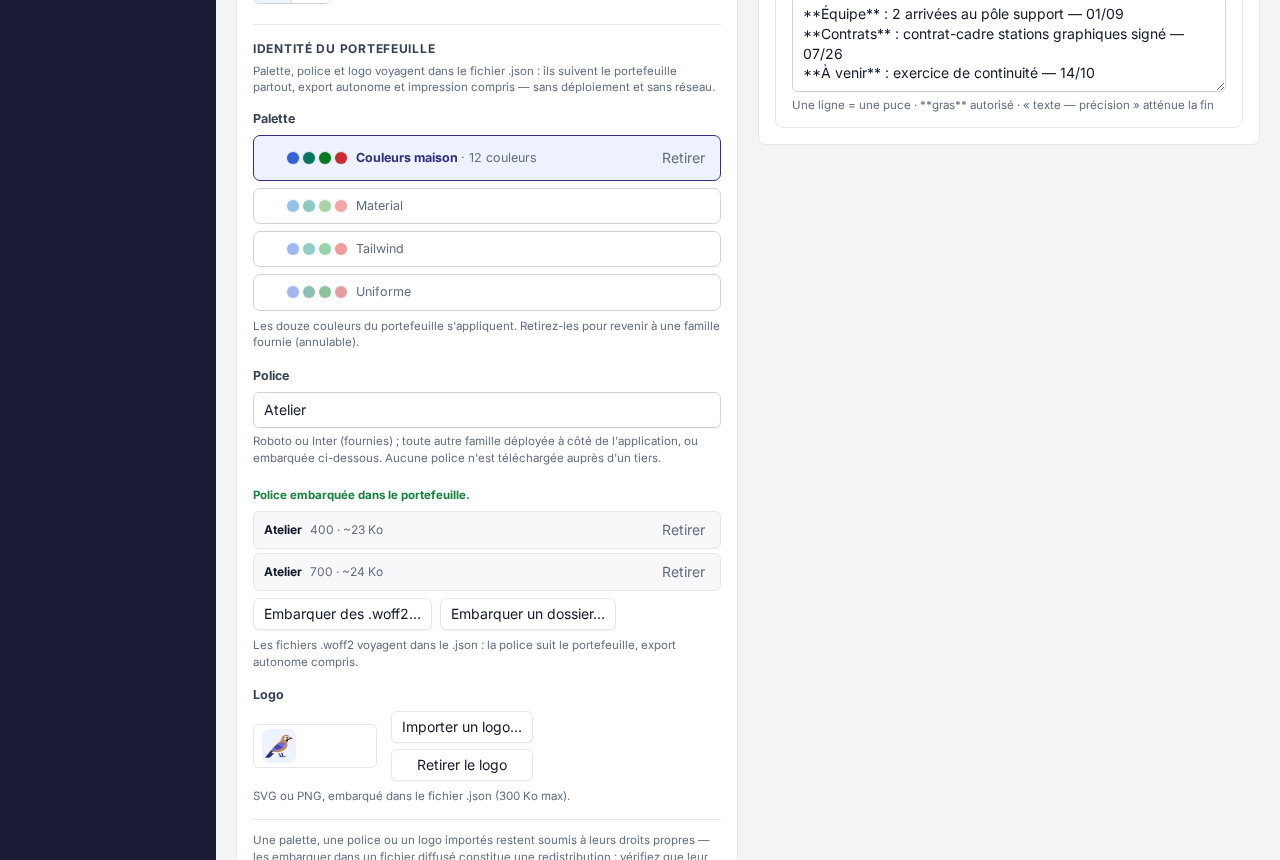
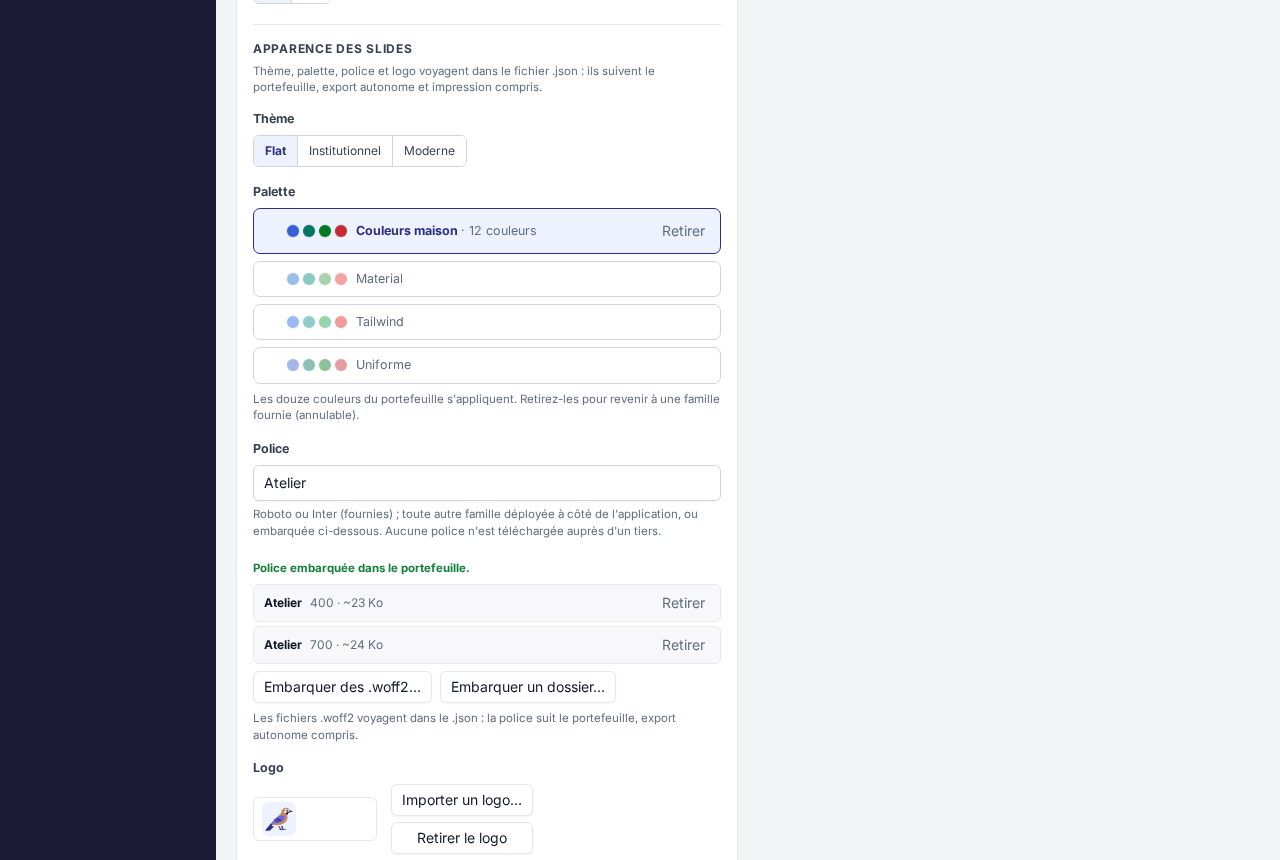
fix(editor): organize free slides and slide appearance

diff --git a/packages/components/src/screens/ReviewScreen.svelte b/packages/components/src/screens/ReviewScreen.svelte
@@ -69,9 +69,9 @@
   /** Mounted only while open: a closed preview renders no slide at all. */
   let previewingTitle = $state(false)
 
-  const openings = $derived(portfolio.freeSlides.filter((s) => s.anchor.type === 'opening'))
+  const slides = $derived(portfolio.freeSlides)
 
-  function addOpening(): void {
+  function addSlide(): void {
     // Born empty: the display does the "—" fallback, the data stays honest.
     const slide: FreeSlide = {
       id: nextFreeSlideId(portfolio.freeSlides),
@@ -82,13 +82,14 @@
     dispatch({ type: 'CreateFreeSlide', slide, index: portfolio.freeSlides.length })
   }
 
-  /**
-   * ↑/↓ move an opening slide RELATIVE TO ITS VISIBLE NEIGHBOUR: `to` is the
-   * neighbour's index in the full `freeSlides` list, which `FreeSlideMoved`'s
-   * splice semantics turn into "right before it" (up) / "right after it" (down).
-   */
-  function moveOpening(slide: FreeSlide, delta: -1 | 1): void {
-    const neighbour = openings[openings.indexOf(slide) + delta]
+  /** Position determines placement in the deck; arrows order slides at that position. */
+  function neighbourOf(slide: FreeSlide, delta: -1 | 1): FreeSlide | undefined {
+    const siblings = slides.filter((s) => JSON.stringify(s.anchor) === JSON.stringify(slide.anchor))
+    return siblings[siblings.indexOf(slide) + delta]
+  }
+
+  function moveSlide(slide: FreeSlide, delta: -1 | 1): void {
+    const neighbour = neighbourOf(slide, delta)
     if (!neighbour) return
     dispatch({
       type: 'MoveFreeSlide',
@@ -161,7 +162,10 @@
       <h2 class="text-primary mb-3 text-xs font-bold tracking-[0.06em] uppercase">
         {te('editor.review.freeSlides', language)}
       </h2>
-      {#each openings as slide, index (slide.id)}
+      <p class="text-muted-foreground mb-3 text-[11.5px]">
+        {te('editor.review.freeSlidesHint', language)}
+      </p>
+      {#each slides as slide (slide.id)}
         <div class="grid grid-cols-[26px_minmax(0,1fr)] items-start gap-1.5">
           <span class="flex flex-col gap-0.5 pt-2">
             <Button
@@ -170,8 +174,8 @@
               class="text-muted-foreground"
               title={te('editor.projects.moveUp', language)}
               aria-label="{te('editor.projects.moveUp', language)} {slide.title}"
-              disabled={index === 0}
-              onclick={() => moveOpening(slide, -1)}
+              disabled={neighbourOf(slide, -1) === undefined}
+              onclick={() => moveSlide(slide, -1)}
               ><span class="inline-block -rotate-90">▸</span></Button
             >
             <Button
@@ -180,8 +184,8 @@
               class="text-muted-foreground"
               title={te('editor.projects.moveDown', language)}
               aria-label="{te('editor.projects.moveDown', language)} {slide.title}"
-              disabled={index === openings.length - 1}
-              onclick={() => moveOpening(slide, 1)}
+              disabled={neighbourOf(slide, 1) === undefined}
+              onclick={() => moveSlide(slide, 1)}
               ><span class="inline-block rotate-90">▸</span></Button
             >
           </span>
@@ -192,7 +196,7 @@
           {te('editor.review.noFreeSlide', language)}
         </p>
       {/each}
-      <Button variant="outline" size="sm" class="mt-2.5 w-full" onclick={addOpening}>
+      <Button variant="outline" size="sm" class="mt-2.5 w-full" onclick={addSlide}>
         {te('editor.settings.add', language)}
       </Button>
     </section>

diff --git a/packages/components/src/i18n.ts b/packages/components/src/i18n.ts
@@ -237,6 +237,10 @@ export const EDITOR_CATALOG = {
   'editor.review.title': { fr: 'Revue', en: 'Review' },
   'editor.review.identity': { fr: 'Identité', en: 'Identity' },
   'editor.review.freeSlides': { fr: 'Slides libres', en: 'Free slides' },
+  'editor.review.freeSlidesHint': {
+    fr: 'Toutes les slides libres se gèrent ici. Choisissez leur position ; les flèches règlent leur ordre à une même position.',
+    en: 'Manage all free slides here. Choose their position; arrows reorder slides at the same position.',
+  },
   'editor.review.dateHint': { fr: 'AAAA-MM-JJ', en: 'YYYY-MM-DD' },
   'editor.review.noFreeSlide': { fr: 'Aucune slide libre.', en: 'No free slide.' },
 
@@ -288,7 +292,6 @@ export const EDITOR_CATALOG = {
   'editor.settings.appearance': { fr: 'Apparence', en: 'Appearance' },
   'editor.settings.aggregates': { fr: 'Diaporama', en: 'Slideshow' },
   'editor.settings.categories': { fr: 'Catégories', en: 'Categories' },
-  'editor.settings.freeSlides': { fr: 'Slides libres', en: 'Free slides' },
   'editor.settings.color': { fr: 'Couleur', en: 'Colour' },
   /* The 12 category colors of the data contract — the ADT values are
      code names, never shown raw. */
@@ -354,13 +357,13 @@ export const EDITOR_CATALOG = {
     en: 'The .woff2 files travel inside the .json: the font follows the portfolio, standalone export included.',
   },
   /* ---- portfolio identity: the three assets the .json carries ---- */
-  'editor.settings.portfolioIdentity': {
-    fr: 'Identité du portefeuille',
-    en: 'Portfolio identity',
+  'editor.settings.slideAppearance': {
+    fr: 'Apparence des slides',
+    en: 'Slide appearance',
   },
   'editor.settings.identityHint': {
-    fr: `Palette, police et logo voyagent dans le fichier .json${NBSP}: ils suivent le portefeuille partout, export autonome et impression compris — sans déploiement et sans réseau.`,
-    en: 'Palette, font and logo travel inside the .json file: they follow the portfolio everywhere, standalone export and printing included — no deployment, no network.',
+    fr: `Thème, palette, police et logo voyagent dans le fichier .json${NBSP}: ils suivent le portefeuille, export autonome et impression compris.`,
+    en: 'Slide theme, palette, font and logo travel inside the .json file: they follow the portfolio, standalone export and printing included.',
   },
   /* ONE licence line for the three — they raise the same question, and
      answering it three times would only make it easier to skip. It says what

diff --git a/packages/components/src/screens/settings/AppearanceCard.svelte b/packages/components/src/screens/settings/AppearanceCard.svelte
@@ -2,10 +2,9 @@
   /**
    * Appearance card, in two halves.
    *
-   * ABOVE — what THIS BUILD offers: the slide theme, the reader scheme and the
-   * interface language.
+   * ABOVE — editor preferences: the reader scheme and interface language.
    *
-   * BELOW — PORTFOLIO IDENTITY: the three assets the .json file carries
+   * BELOW — SLIDE APPEARANCE: the slide style and the three assets the .json file carries
    * itself, gathered in one section because they are one idea. An
    * organization's colours, typeface and mark travel INSIDE the document —
    * no deployment, no network, nothing to install on the machine that opens
@@ -277,16 +276,6 @@
     {te('editor.settings.appearance', language)}
   </h2>
 
-  <FieldSegmented
-    label={te('editor.setting.style', language)}
-    value={settings.theme.style}
-    options={THEME_STYLES.map((candidate) => ({
-      value: candidate,
-      label: te(`editor.style.${candidate}`, language),
-    }))}
-    commit={setStyle}
-  />
-
   {#if appearance}
     <FieldSegmented
       label={te('editor.setting.scheme', language)}
@@ -311,15 +300,25 @@
     commit={setLanguage}
   />
 
-  <!-- ============ the three assets the FILE carries, in one section ======= -->
+  <!-- Slide style, palette, font and logo belong to the document. -->
   <h3
     class="text-(--txt2) border-border mt-5 mb-1.5 border-t pt-4 text-xs font-bold tracking-[0.06em] uppercase"
   >
-    {te('editor.settings.portfolioIdentity', language)}
+    {te('editor.settings.slideAppearance', language)}
   </h3>
   <p class="text-muted-foreground mb-3.5 text-[11.5px]">
     {te('editor.settings.identityHint', language)}
   </p>
+
+  <FieldSegmented
+    label={te('editor.setting.style', language)}
+    value={settings.theme.style}
+    options={THEME_STYLES.map((candidate) => ({
+      value: candidate,
+      label: te(`editor.style.${candidate}`, language),
+    }))}
+    commit={setStyle}
+  />
 
   <!-- 1. Colours: the built-in families, plus the portfolio's own palette
        when it carries one — which then applies, whatever family is named. -->

diff --git a/packages/components/src/screens/SettingsScreen.svelte b/packages/components/src/screens/SettingsScreen.svelte
@@ -1,7 +1,7 @@
 <script lang="ts">
   /**
    * Settings screen: appearance (palette, font, language), aggregate slides,
-   * categories (CRUD + reorder) and free slides. Destructive confirmations
+   * categories (CRUD + reorder). Destructive confirmations
    * run in the vendored AlertDialog (see `settings/DataCard`).
    *
    * Every control emits a `ChangeSetting` / category command, so switching the
@@ -21,7 +21,6 @@
   import AggregateSlidesCard from './settings/AggregateSlidesCard.svelte'
   import DataCard from './settings/DataCard.svelte'
   import CategoriesCard from './settings/CategoriesCard.svelte'
-  import FreeSlidesCard from './settings/FreeSlidesCard.svelte'
 
   interface Props {
     readonly portfolio: Portfolio
@@ -66,6 +65,5 @@
 
   <div class="flex min-w-0 flex-col gap-4">
     <CategoriesCard {portfolio} {dispatch} />
-    <FreeSlidesCard {portfolio} {dispatch} />
   </div>
 </div>

diff --git a/docs/user-guide.fr.md b/docs/user-guide.fr.md
@@ -53,11 +53,12 @@ entrée d'historique — Ctrl+Z l'annule. Le lien facultatif « Découvrir avec 
 Ensuite :
 
 - **Revue** porte le cadre du diaporama : titre, sous-titre, dates de revue,
-  et les slides libres (chacune avec un titre, une ancre et des blocs de
-  texte ; les flèches **Monter** / **Descendre** les réordonnent).
+  et toutes les slides libres (ouverture, avant une catégorie ou clôture).
+  Chacune a un titre, une position et des blocs de texte ; les flèches
+  **Monter** / **Descendre** règlent l'ordre à une même position.
 - **Projets** liste le portefeuille ; **+ Ajouter un projet** en crée un.
-- **Paramètres** porte l'identité, le thème, les catégories, les slides
-  libres, les slides d'agrégat et l'administration des données ; chaque
+- **Paramètres** porte l'identité, l'apparence, les catégories, les slides
+  d'agrégat et l'administration des données ; chaque
   projet appartient à une catégorie.
 
 Chaque vue est une adresse : `#/review`, `#/projects`, `#/settings`,
@@ -295,17 +296,12 @@ simplement plus confortable pour saisir.
 
 ## Apparence
 
-<img src="images/fr-settings.png" width="720" alt="Vue Paramètres : identité, apparence, catégories et slides libres — les interrupteurs de slides d’agrégat et la carte Données suivent plus bas">
+<img src="images/fr-settings.png" width="720" alt="Vue Paramètres : identité, apparence et catégories — les interrupteurs de slides d’agrégat et la carte Données suivent plus bas">
 
-La carte a deux moitiés : ce que cette version propose, et les trois actifs
-que votre fichier de portefeuille porte lui-même.
+La carte distingue les préférences de l'interface et l'apparence des slides.
 
 **Paramètres > Apparence** :
 
-- **Thème** — Flat (défaut), Institutionnel ou Moderne. Il habille les
-  slides : Flat est massif et carré, Institutionnel dense et filaire, Moderne
-  souple et aéré. Les trois rendent le même contenu — choisissez celui qui va
-  à la salle où vous présentez.
 - **Thème de l'interface** — Système (défaut), Clair ou Sombre. Une
   préférence de l'appareil, rangée hors du fichier de portefeuille :
   l'éditeur bascule, les slides restent claires (elles sont l'artefact). Les
@@ -315,10 +311,12 @@ que votre fichier de portefeuille porte lui-même.
   chaud. La langue se change aussi par le menu de langue de la barre du
   haut.
 
-**Paramètres > Apparence > Identité du portefeuille** — palette, police et
-logo. Les trois voyagent DANS le fichier `.json` : ils suivent le portefeuille
-partout, export autonome et impression compris, sans déploiement et sans
-réseau.
+**Paramètres > Apparence > Apparence des slides** — thème, palette, police et
+logo. Ces choix suivent le portefeuille dans le fichier `.json`, export
+autonome et impression compris.
+
+- **Thème** — Flat (défaut), Institutionnel ou Moderne. Il habille les slides,
+  indépendamment du thème clair/sombre de l'interface.
 
 - **Palette** — Material (défaut), Tailwind ou Uniforme. Elle résout les douze
   couleurs de catégorie ; les slides ne nomment jamais une couleur, seulement

diff --git a/docs/user-guide.md b/docs/user-guide.md
@@ -48,11 +48,12 @@ link (`?sample`) opens the same set on first use, without replacing saved work.
 From there:
 
 - **Review** holds the deck frame: title, subtitle, review dates, and the free
-  slides (each with a title, an anchor position and text blocks; the
-  **Move up** / **Move down** arrows reorder them).
+  slides at every position: opening, before a category or closing. Each has a
+  title, position and text blocks; **Move up** / **Move down** reorder slides
+  at the same position.
 - **Projects** lists the portfolio; **+ Add a project** creates one.
-- **Settings** holds the identity, the theme, the categories, the free
-  slides, the aggregate-slide switches and the data administration; every
+- **Settings** holds the identity, appearance, categories,
+  aggregate-slide switches and data administration; every
   project belongs to one category.
 
 Every view is an address: `#/review`, `#/projects`, `#/settings`,
@@ -268,17 +269,12 @@ a desktop simply stays the more comfortable place to edit.
 
 ## Appearance
 
-<img src="images/en-settings.png" width="720" alt="Settings view: identity, appearance, categories and free slides — the aggregate-slide switches and the data card follow below">
+<img src="images/en-settings.png" width="720" alt="Settings view: identity, appearance and categories — the aggregate-slide switches and the data card follow below">
 
-The card has two halves: what this build offers, and the three assets your
-portfolio file carries itself.
+The card separates interface preferences from slide appearance.
 
 **Settings > Appearance**:
 
-- **Theme** — Flat (default), Institutional or Modern. This styles the slides:
-  Flat is massive and square, Institutional dense and wiry, Modern soft and
-  spacious. The three render the same content — pick the one that suits the
-  room you present in.
 - **Interface theme** — System (default), Light or Dark. A preference of the
   device, stored outside the portfolio file: the editor chrome flips, the
   slides stay light (they are the artifact). The same three states sit in
@@ -286,9 +282,12 @@ portfolio file carries itself.
 - **Language** — French or English; switching redraws the app at runtime. The
   language can also be switched from the top bar's language menu.
 
-**Settings > Appearance > Portfolio identity** — palette, font and logo. All
-three travel INSIDE the `.json` file: they follow the portfolio everywhere,
-standalone export and printing included, with no deployment and no network.
+**Settings > Appearance > Slide appearance** — slide theme, palette, font and
+logo. These choices travel inside the `.json` file, including standalone
+exports and printing.
+
+- **Theme** — Flat (default), Institutional or Modern. This styles the slides,
+  independently of the interface's light/dark scheme.
 
 - **Palette** — Material (default), Tailwind or Uniform. It resolves the
   twelve category colours; the slides never name a colour, only a category.

diff --git a/.changeset/clear-review-appearance.md b/.changeset/clear-review-appearance.md
@@ -1,0 +1,5 @@
+---
+'@project-review/components': patch
+---
+
+Manage all free slides in Review instead of duplicating them in Settings. Keep slides visible when their position changes and reorder them within the same position. Group the slide theme with palette, font and logo, separate from interface preferences.
